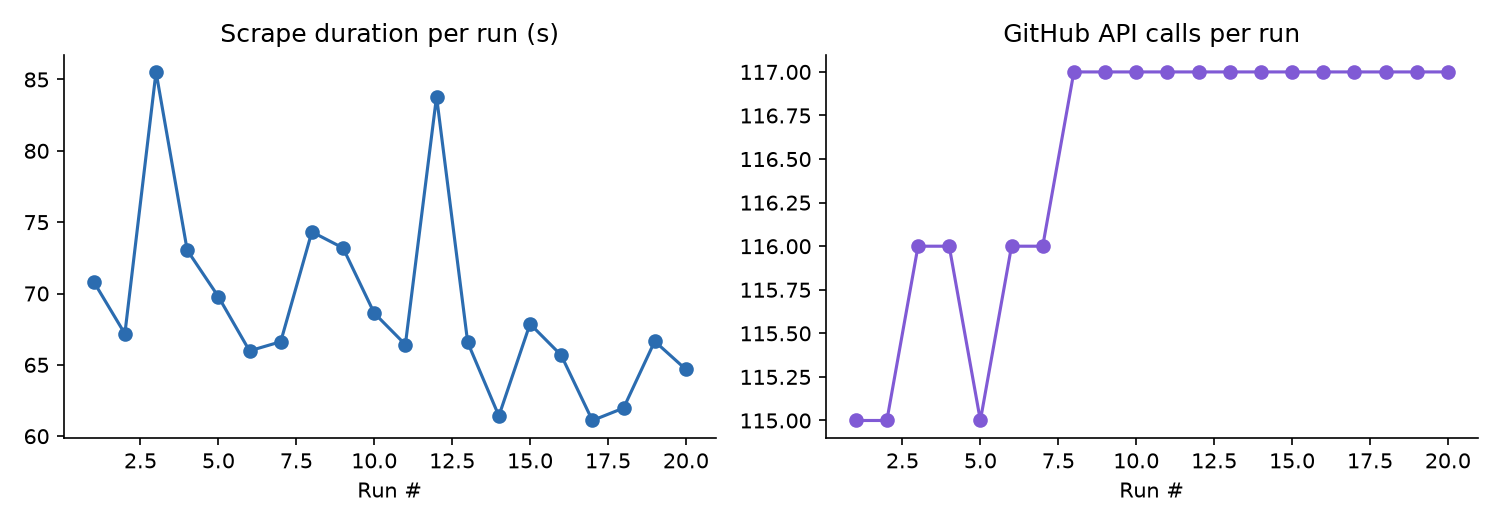
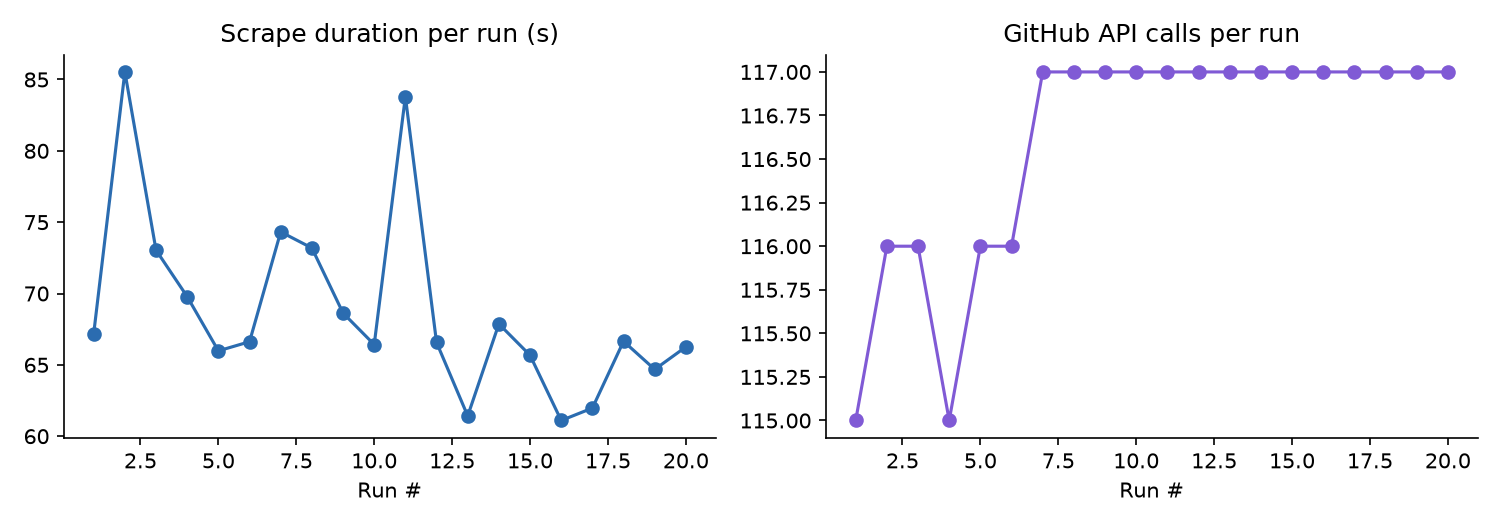
Weekly issue tracker refresh

diff --git a/README.md b/README.md
@@ -81,7 +81,7 @@ See [CONTRIBUTING.md](CONTRIBUTING.md) for the full contributor workflow — inc
 
 <!-- TRACKER:START -->
 
-_Last updated: 2026-09-27 07:12 UTC_
+_Last updated: 2026-09-27 13:01 UTC_
 
 _Tracking **18** upstream repos, **370** relevant open issues._
 
@@ -105,7 +105,7 @@ _Tracking **18** upstream repos, **370** relevant open issues._
 | Score | Issue | Labels | Comments | Updated |
 |---|---|---|---|---|
 | ★★★☆☆ | [#1038](https://github.com/GoogleCloudPlatform/opentelemetry-operations-go/issues/1038) Disabling the normalizer breaks unknown metrics | bug, priority: p2 | 0 | 2025-05-20 |
-| ★★☆☆☆ | [#912](https://github.com/GoogleCloudPlatform/opentelemetry-operations-go/issues/912) Dependency Dashboard | priority: p3, dependencies | 0 | 2026-09-26 |
+| ★★☆☆☆ | [#912](https://github.com/GoogleCloudPlatform/opentelemetry-operations-go/issues/912) Dependency Dashboard | priority: p3, dependencies | 0 | 2026-09-27 |
 | ★★☆☆☆ | [#946](https://github.com/GoogleCloudPlatform/opentelemetry-operations-go/issues/946) Add support for tracking metrics with `Cloud Run` resource type | enhancement | 6 | 2026-03-18 |
 | ★★☆☆☆ | [#1039](https://github.com/GoogleCloudPlatform/opentelemetry-operations-go/issues/1039) Cloud Trace does not display error span status description | bug, priority: p3, Blocked | 4 | 2025-06-02 |
 | ★★☆☆☆ | [#1026](https://github.com/GoogleCloudPlatform/opentelemetry-operations-go/issues/1026) GCP detector ignores context | bug, priority: p1 | 2 | 2025-05-28 |
@@ -238,7 +238,7 @@ _Tracking **18** upstream repos, **370** relevant open issues._
 | ★★★★★ | [#51416](https://github.com/open-telemetry/opentelemetry-collector-contrib/issues/51416) [pkg/ottl] `Time()` treats a trailing `%Z` as UTC | bug, good first issue, priority:p2, pkg/ottl | 1 | 2026-09-24 |
 | ★★★★★ | [#50330](https://github.com/open-telemetry/opentelemetry-collector-contrib/issues/50330) Support component status attributes | enhancement, good first issue, extension/opamp | 4 | 2026-08-19 |
 | ★★★★★ | [#48420](https://github.com/open-telemetry/opentelemetry-collector-contrib/issues/48420) [processor/tailsampling] Change default `error_mode` to `ignore` | enhancement, help wanted, good first issue, processor/tailsampling | 5 | 2026-08-17 |
-| ★★★★☆ | [#51297](https://github.com/open-telemetry/opentelemetry-collector-contrib/issues/51297) [receiver/azuremonitor] Storage Capacity metrics (BlobCapacity/UsedCapacity) publish with highly variable, undocumented delay per account | good first issue, receiver/azuremonitor | 5 | 2026-09-26 |
+| ★★★★☆ | [#51297](https://github.com/open-telemetry/opentelemetry-collector-contrib/issues/51297) [receiver/azuremonitor] Storage Capacity metrics (BlobCapacity/UsedCapacity) publish with highly variable, undocumented delay per account | good first issue, receiver/azuremonitor | 6 | 2026-09-27 |
 | ★★★★☆ | [#48079](https://github.com/open-telemetry/opentelemetry-collector-contrib/issues/48079) [pkg/pdatatest] New MTS-focused metric assertion framework | enhancement, help wanted, pkg/pdatatest | 2 | 2026-09-25 |
 | ★★★★☆ | [#39342](https://github.com/open-telemetry/opentelemetry-collector-contrib/issues/39342) [exporter/elasticsearch] Document indexed document structure | enhancement, good first issue, exporter/elasticsearch | 22 | 2026-09-25 |
 | ★★★★☆ | [#45700](https://github.com/open-telemetry/opentelemetry-collector-contrib/issues/45700) Support multiple collection intervals within a receiver | enhancement, help wanted, Stale, receiver/sqlserver, waiting-for-code-owners | 9 | 2026-09-23 |
@@ -296,7 +296,7 @@ _Tracking **18** upstream repos, **370** relevant open issues._
 
 <!-- METRICS:START -->
 
-_Last run: 2026-09-27 07:11 UTC, took **64.7s**, **117** GitHub API calls, **4883/5000** rate limit remaining._
+_Last run: 2026-09-27 12:59 UTC, took **66.3s**, **117** GitHub API calls, **4883/5000** rate limit remaining._
 
 ![Scrape metrics trend](assets/metrics_trend.png)
 
